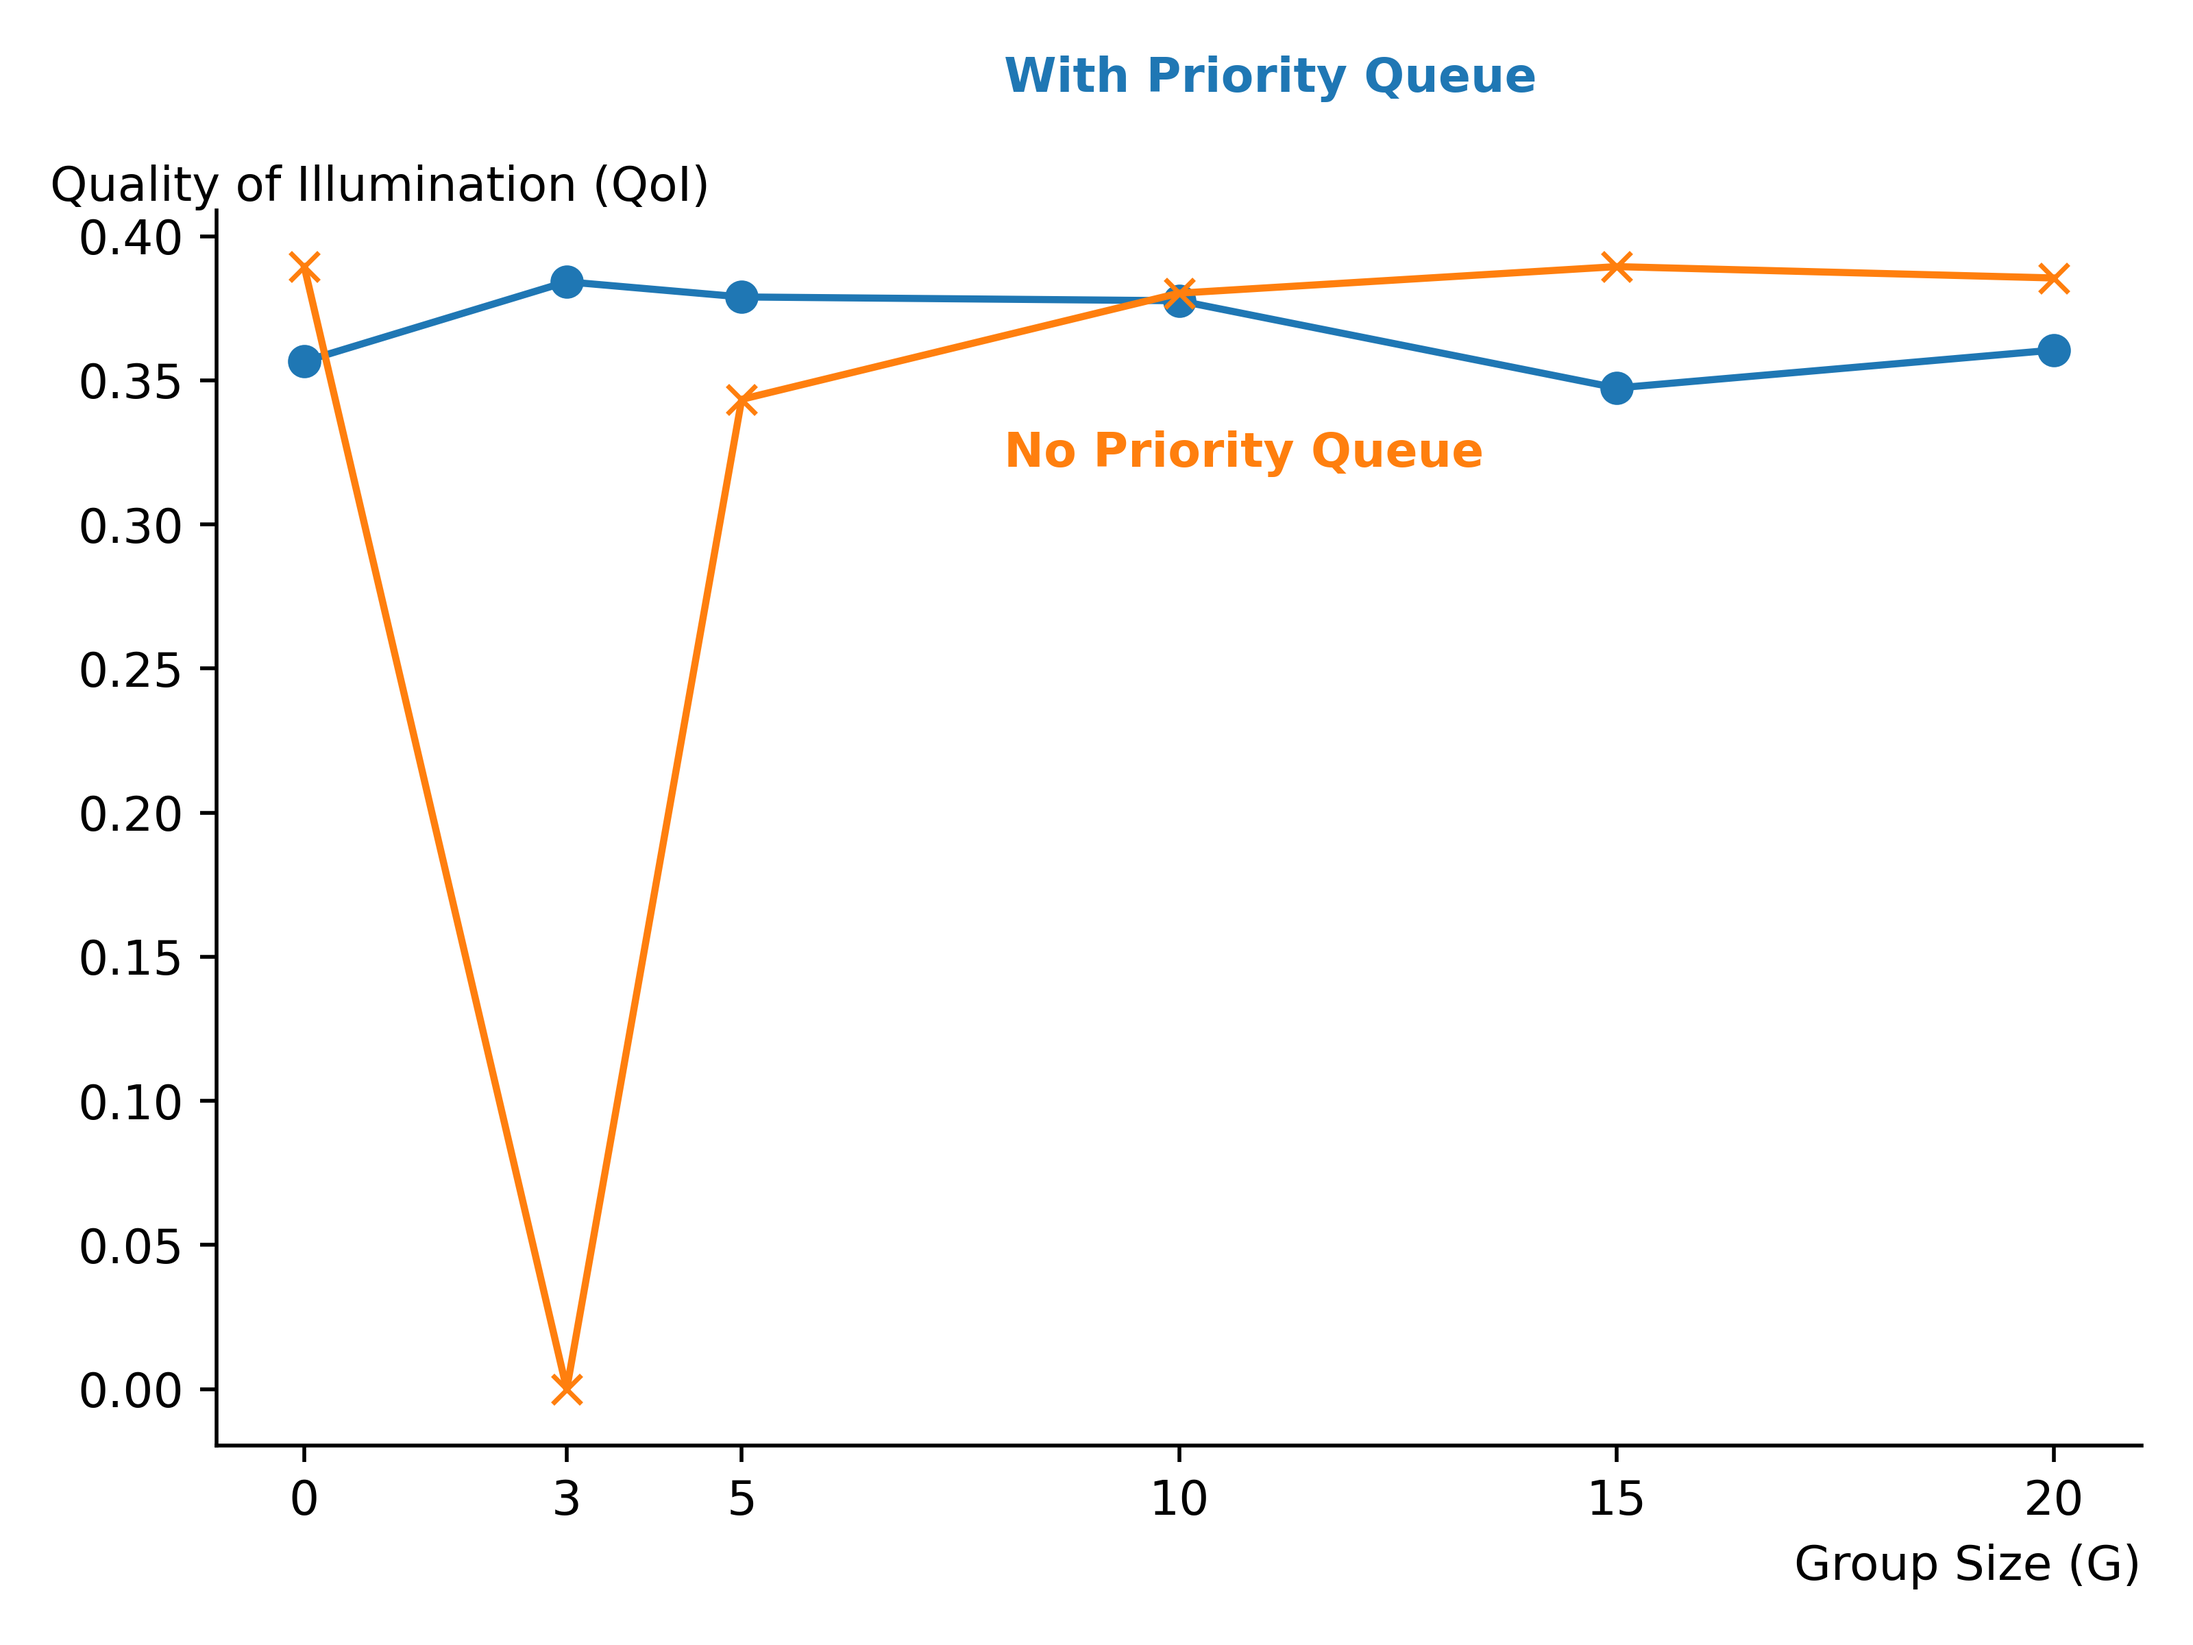
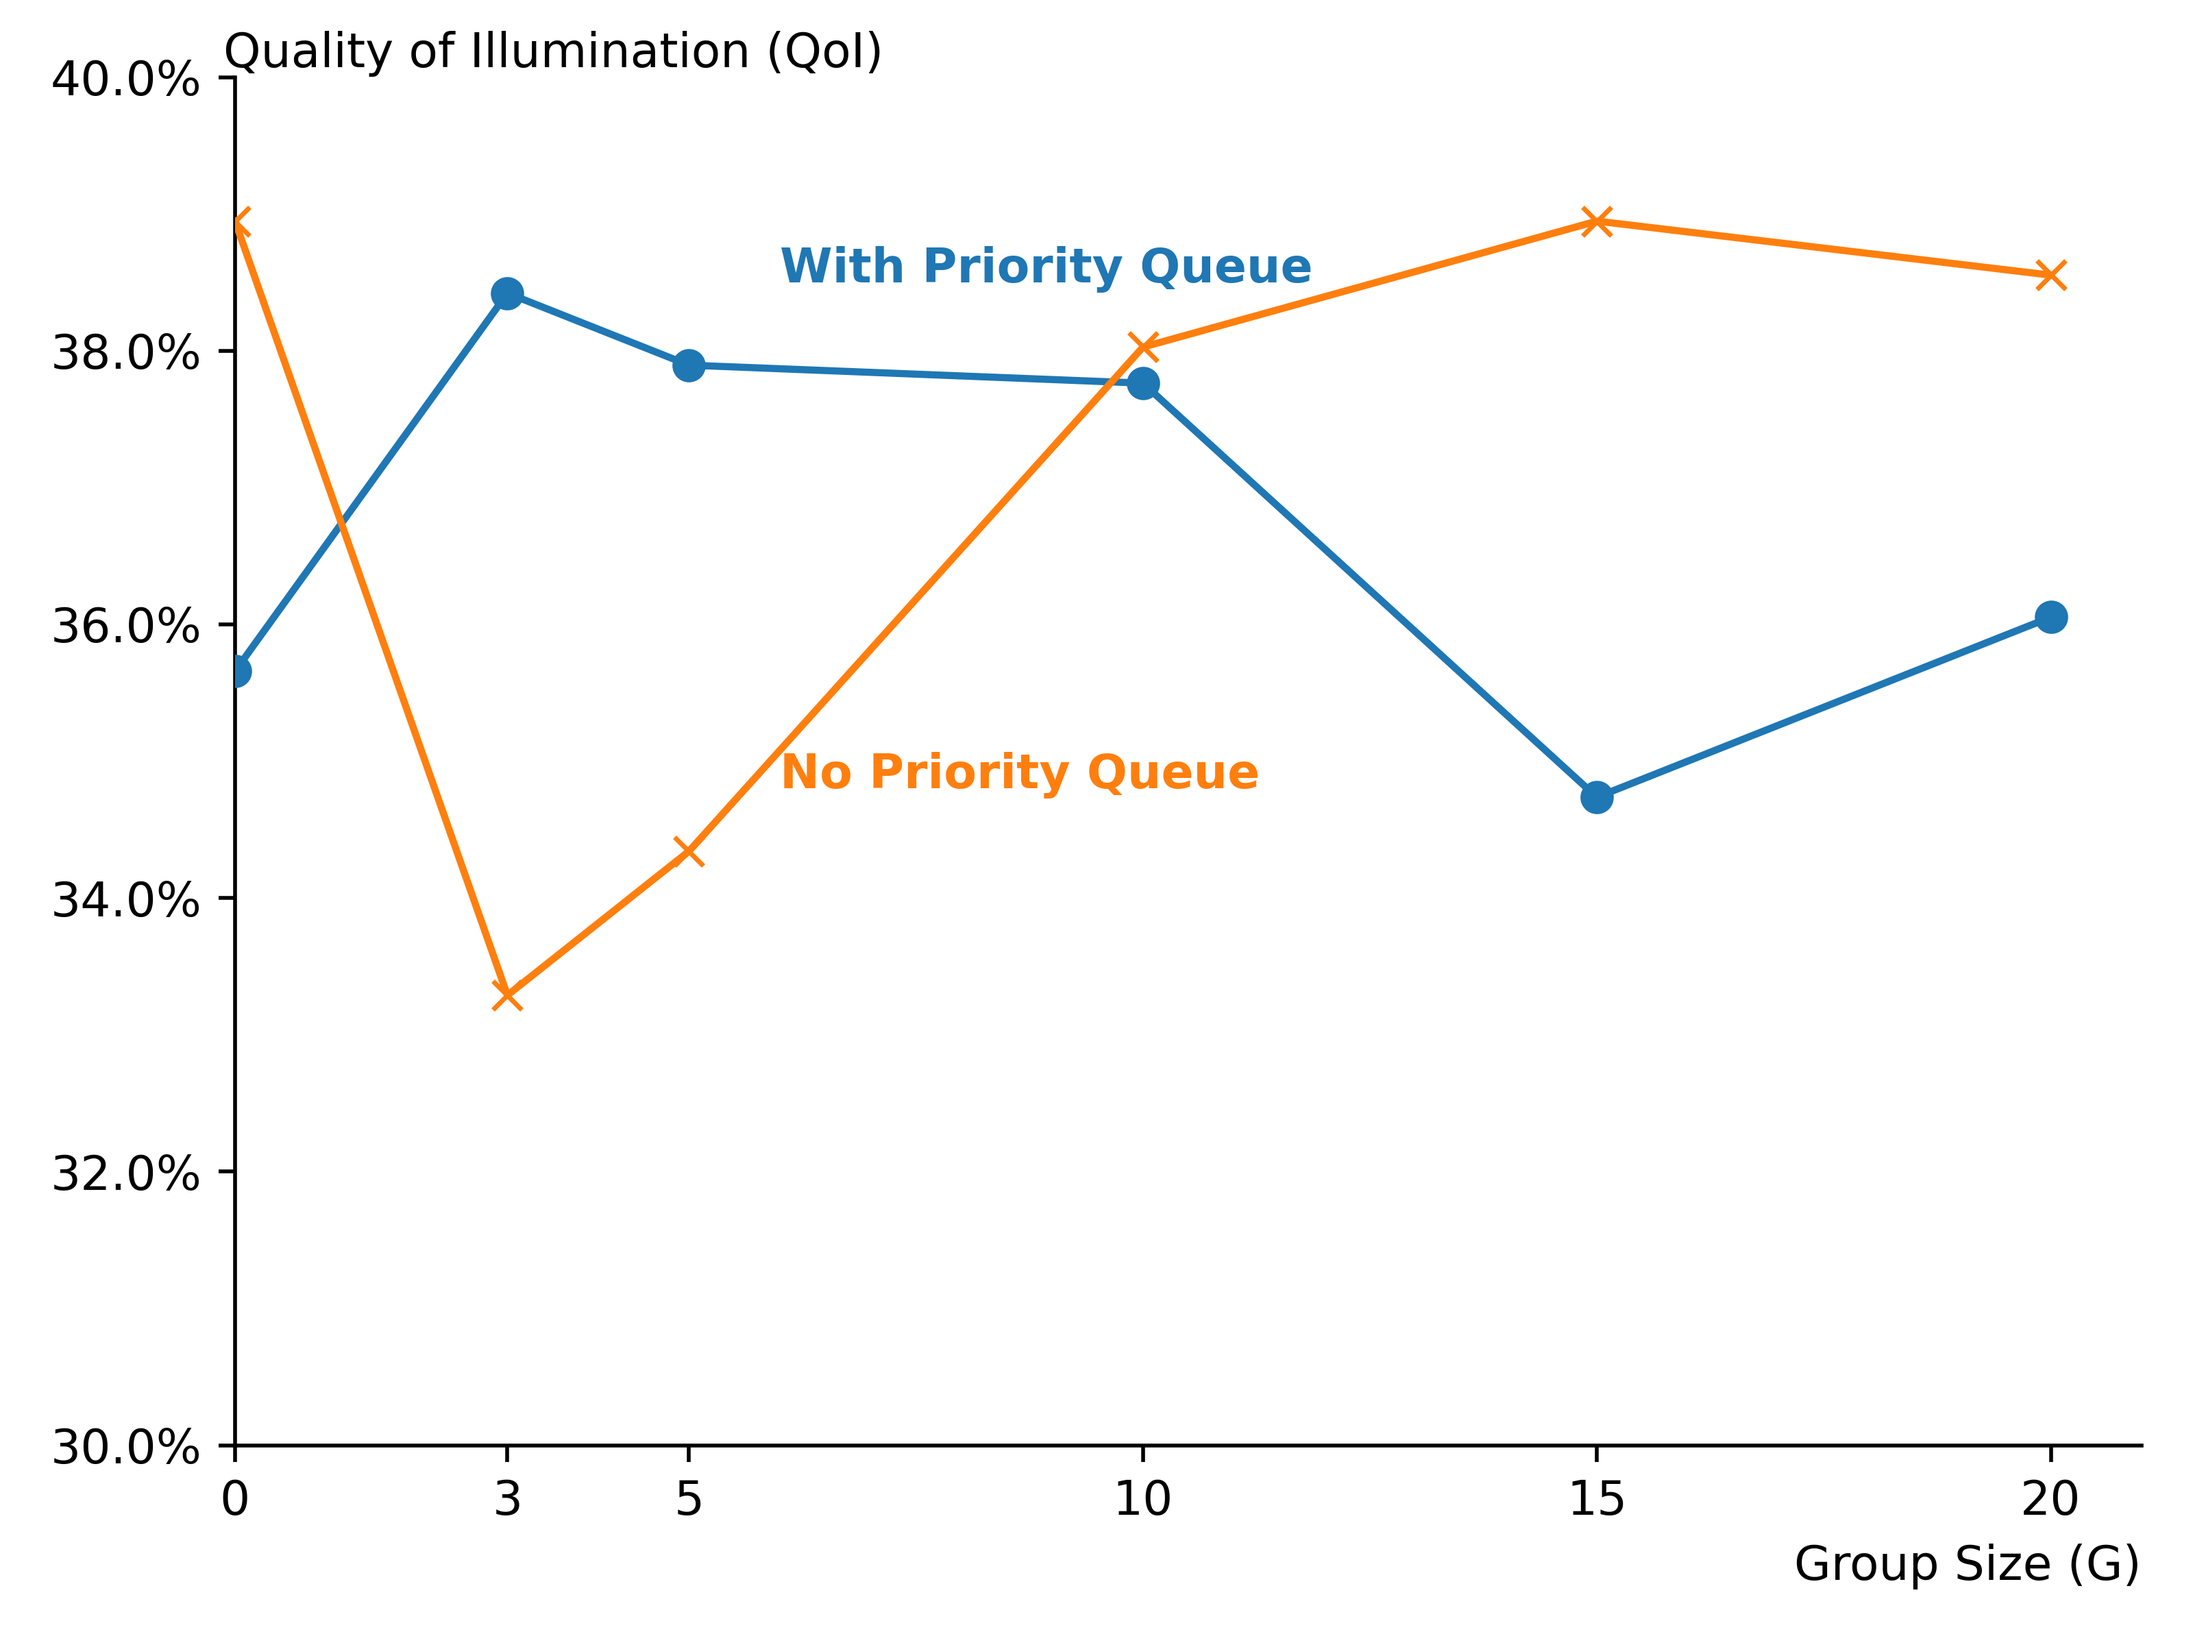
dragon R3000 for video

diff --git a/utils/draw_mttr_groupsize.py b/utils/draw_mttr_groupsize.py
@@ -1,5 +1,5 @@
 import matplotlib.pyplot as plt
-
+from matplotlib.ticker import PercentFormatter
 import pandas as pd
 
 mttr_list = [[],[]]
@@ -31,39 +31,53 @@ ax.spines['top'].set_visible(False)
 # Set x-axis to only show values in group_sizes list
 plt.xticks([0, 3, 5, 10, 15, 20])
 
-ax.set_ylabel('Mean Time To Repair (MTTR)', loc='top', rotation=0, labelpad=-140)
+ax.set_ylabel('Mean Time to Illuminate after a Failure(MTIF)', loc='top', rotation=0, labelpad=-260)
 ax.set_xlabel('Group Size (G)', loc='right')
-plt.tight_layout()
+ax.set_xlim(left=0)
 
+yticks = plt.yticks()[0]
+yticks = sorted(list(yticks) + [min(min(mttr_list)), max(max(mttr_list))])
+# Set the updated y-ticks
+plt.yticks(yticks)
 
-plt.text(6, 44, 'With Priority Queue', color=pri_line.get_color(), fontweight='bold')
+ax.set_ylim(min(min(mttr_list)), max(max(mttr_list))+1)
 
-plt.text(6, 53, 'No Priority Queue', color=nopri_line.get_color(), fontweight='bold')
+plt.text(6, 48, 'With Priority Queue', color=pri_line.get_color(), fontweight='bold', zorder=3)
+
+plt.text(6, 54, 'No Priority Queue', color=nopri_line.get_color(), fontweight='bold', zorder=3)
 
 # Add legend
 # plt.show(dpi=500)
-plt.savefig(f"../dragon_MTTR_groupsize_compare.png", dpi=500)
+plt.tight_layout()
+plt.savefig(f"../dragon_MTIF_groupsize_compare.png", dpi=500)
 plt.close()
 
 plt.figure()
-pri_line, = plt.plot([0, 3, 5, 10, 15, 20], QoI_list[0], marker='o', label=f'With Priority Queue')
+pri_line, = plt.plot([0, 3, 5, 10, 15, 20], QoI_list[0], marker='o', label=f'With Priority Queue', zorder=3)
 
-nopri_line, = plt.plot([0, 3, 5, 10, 15, 20], QoI_list[1], marker='x', label=f'No Priority Queue')
+nopri_line, = plt.plot([0, 3, 5, 10, 15, 20], QoI_list[1], marker='x', label=f'No Priority Queue', zorder=3)
 
+ax.yaxis.set_major_formatter(PercentFormatter(1))
 
-plt.text(8, 0.45, 'With Priority Queue', color=pri_line.get_color(), fontweight='bold')
+plt.text(6, 0.385, 'With Priority Queue', color=pri_line.get_color(), fontweight='bold')
 
-plt.text(8, 0.32, 'No Priority Queue', color=nopri_line.get_color(), fontweight='bold')
-# plt.tight_layout()
+plt.text(6, 0.348, 'No Priority Queue', color=nopri_line.get_color(), fontweight='bold')
+plt.tight_layout()
 
 ax = plt.gca()
+
+ax.yaxis.set_major_formatter(PercentFormatter(1))
 ax.spines['right'].set_visible(False)
 ax.spines['top'].set_visible(False)
-
+for spine in ax.spines.values():
+    spine.set_zorder(1)
 # Set x-axis to only show values in group_sizes list
 plt.xticks([0, 3, 5, 10, 15, 20])
 
-ax.set_ylabel('Quality of Illumination (QoI)', loc='top', rotation=0, labelpad=-133)
+ax.set_xlim(left=0)
+ax.set_ylim(0.3, 0.4)
+
+ax.set_ylabel('Quality of Illumination (QoI)', loc='top', rotation=0, labelpad=-175)
 ax.set_xlabel('Group Size (G)', loc='right')
 plt.tight_layout()
 # Add legend

diff --git a/gen_conf.py b/gen_conf.py
@@ -57,14 +57,14 @@ general_props = [
     # },
     {
         "keys": ["DISPATCH_RATE"],
-        "values": ["10"],
+        "values": ["3000"],
         # "values": ["10", "50", "100"]
         # "values": ["5", "10"]
     },
     {
         "keys": ["K", "INPUT"],
         "values": [
-            # {"K": "0", "INPUT": "'dragon_G3'"},
+            {"K": "0", "INPUT": "'dragon_G3'"},
             {"K": "3", "INPUT": "'dragon_G3'"},
             # {"K": "5", "INPUT": "'skateboard_G5'"},
             # {"K": "10", "INPUT": "'skateboard_G10'"},
@@ -92,7 +92,7 @@ general_props = [
         "keys": ["MAX_SPEED", "ACCELERATION", "DECELERATION"],
         "values": [
             {"MAX_SPEED": "6.11", "ACCELERATION": "6.11", "DECELERATION": "6.11"},
-            {"MAX_SPEED": "66.67", "ACCELERATION": "66.67", "DECELERATION": "66.67"}
+            # {"MAX_SPEED": "66.67", "ACCELERATION": "66.67", "DECELERATION": "66.67"}
             # {"MAX_SPEED": "600", "ACCELERATION": "600", "DECELERATION": "600"}
         ]
     },
@@ -113,7 +113,7 @@ general_props = [
 
     {
         "keys": ["PRIORITIZE_ILLUMINATING_FLS"],
-        "values": ["False"]
+        "values": ["True", "False"]
     },
     # # {
     {
